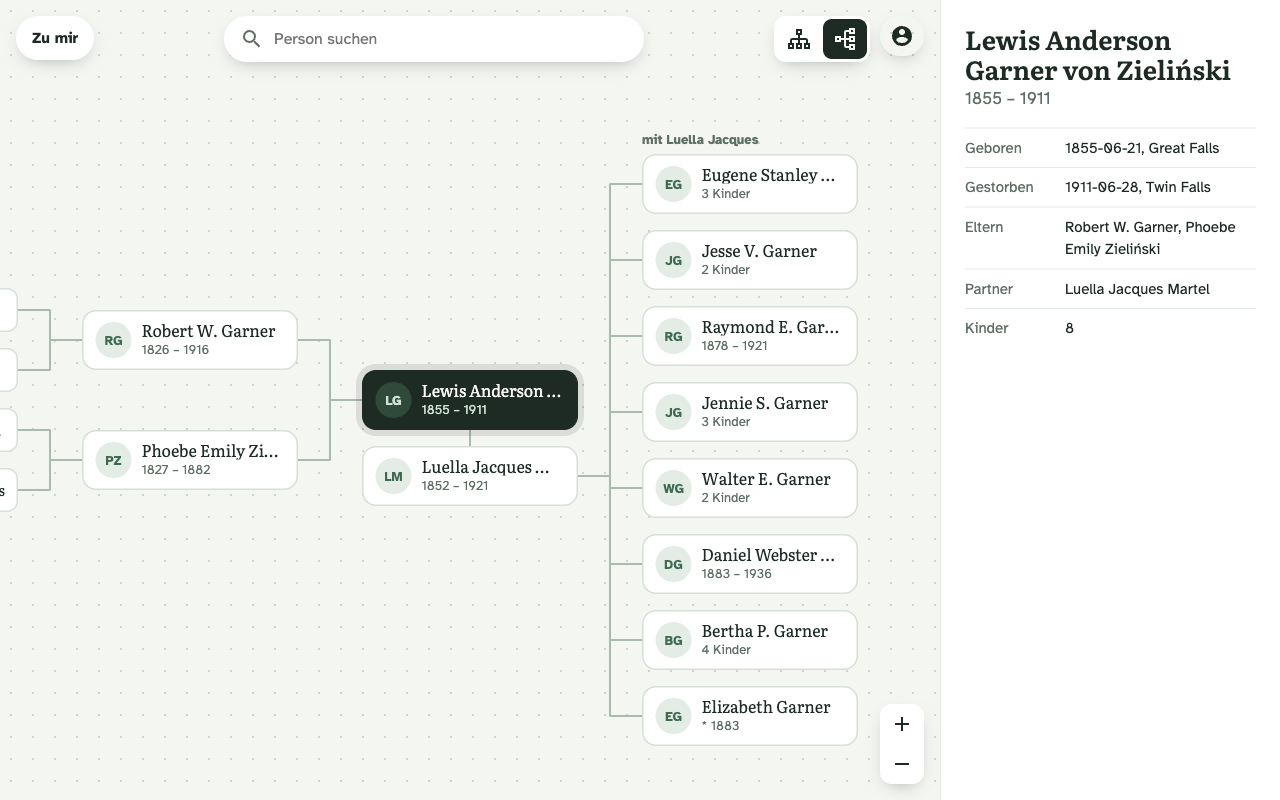
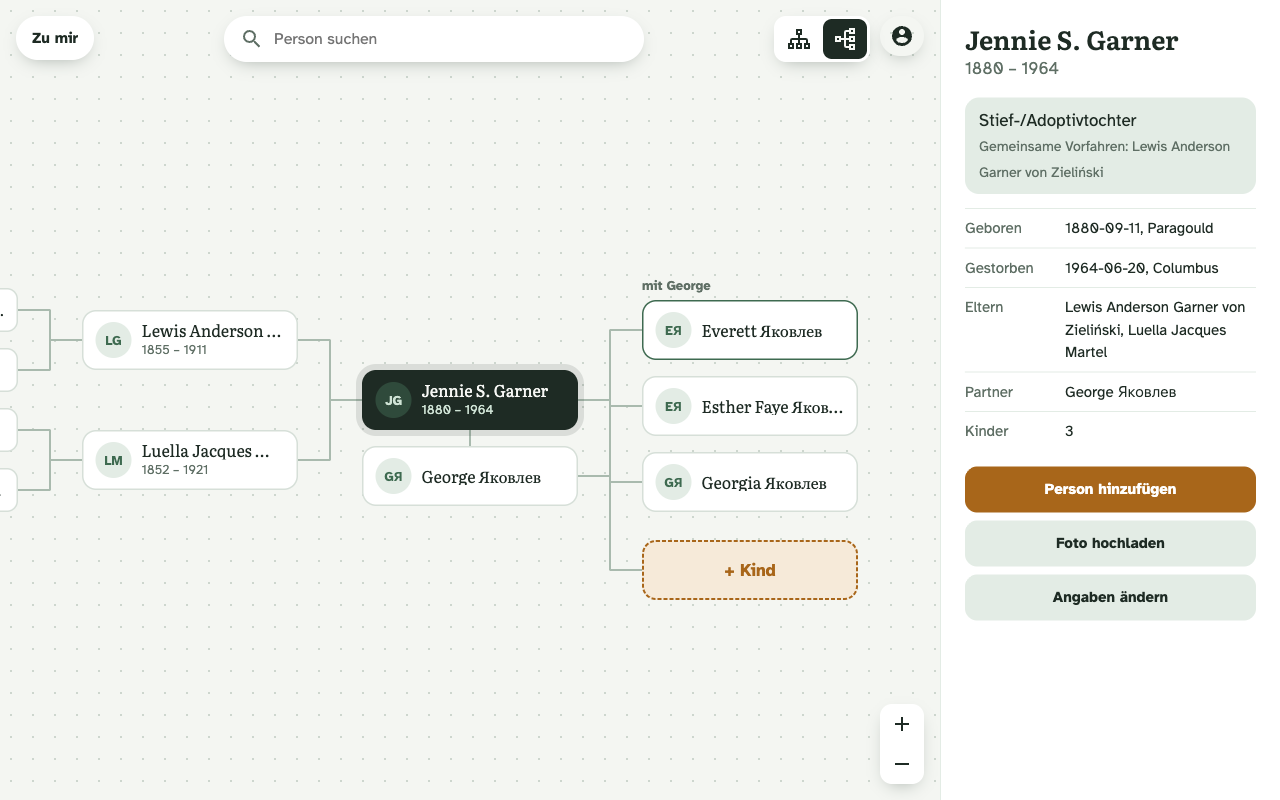
Update family mode screenshots and README
Claude-Session: https://claude.ai/code/session_01DDZAeb9rGVzhGhv3x2tEej

diff --git a/README.md b/README.md
@@ -5,7 +5,7 @@ Welcome to **Gramps Web**, a modern, feature-packed, free & open source web app 
 
 ## Familien-Modus (dieser Fork)
 
-Familienmitglieder, die über einen Share-Link kommen, sehen eine vereinfachte Oberfläche: den Stammbaum als Leinwand rund um eine Person, mit Suche, „Zu mir“ und umschaltbarer Richtung. Admins wechseln über das Konto-Menü zwischen dieser und der vollen Ansicht.
+Familienmitglieder, die über einen Share-Link kommen, sehen eine vereinfachte Oberfläche: den Stammbaum als Leinwand rund um eine Person, mit Suche, „Zu mir“ und umschaltbarer Richtung. Sie können Personen ergänzen (auch bei mehreren Ehen), Angaben ändern, Fotos hochladen und sehen, wie sie mit jemandem verwandt sind. Beim ersten Login verknüpft sich der Account per Name mit der eigenen Person. Admins legen in der Benutzerverwaltung pro Account fest, welche Oberfläche er bekommt, und wechseln selbst über das Konto-Menü.
 
 <p>
   <img src="images/family-mode-desktop.png" alt="Familien-Modus am PC" width="640">
